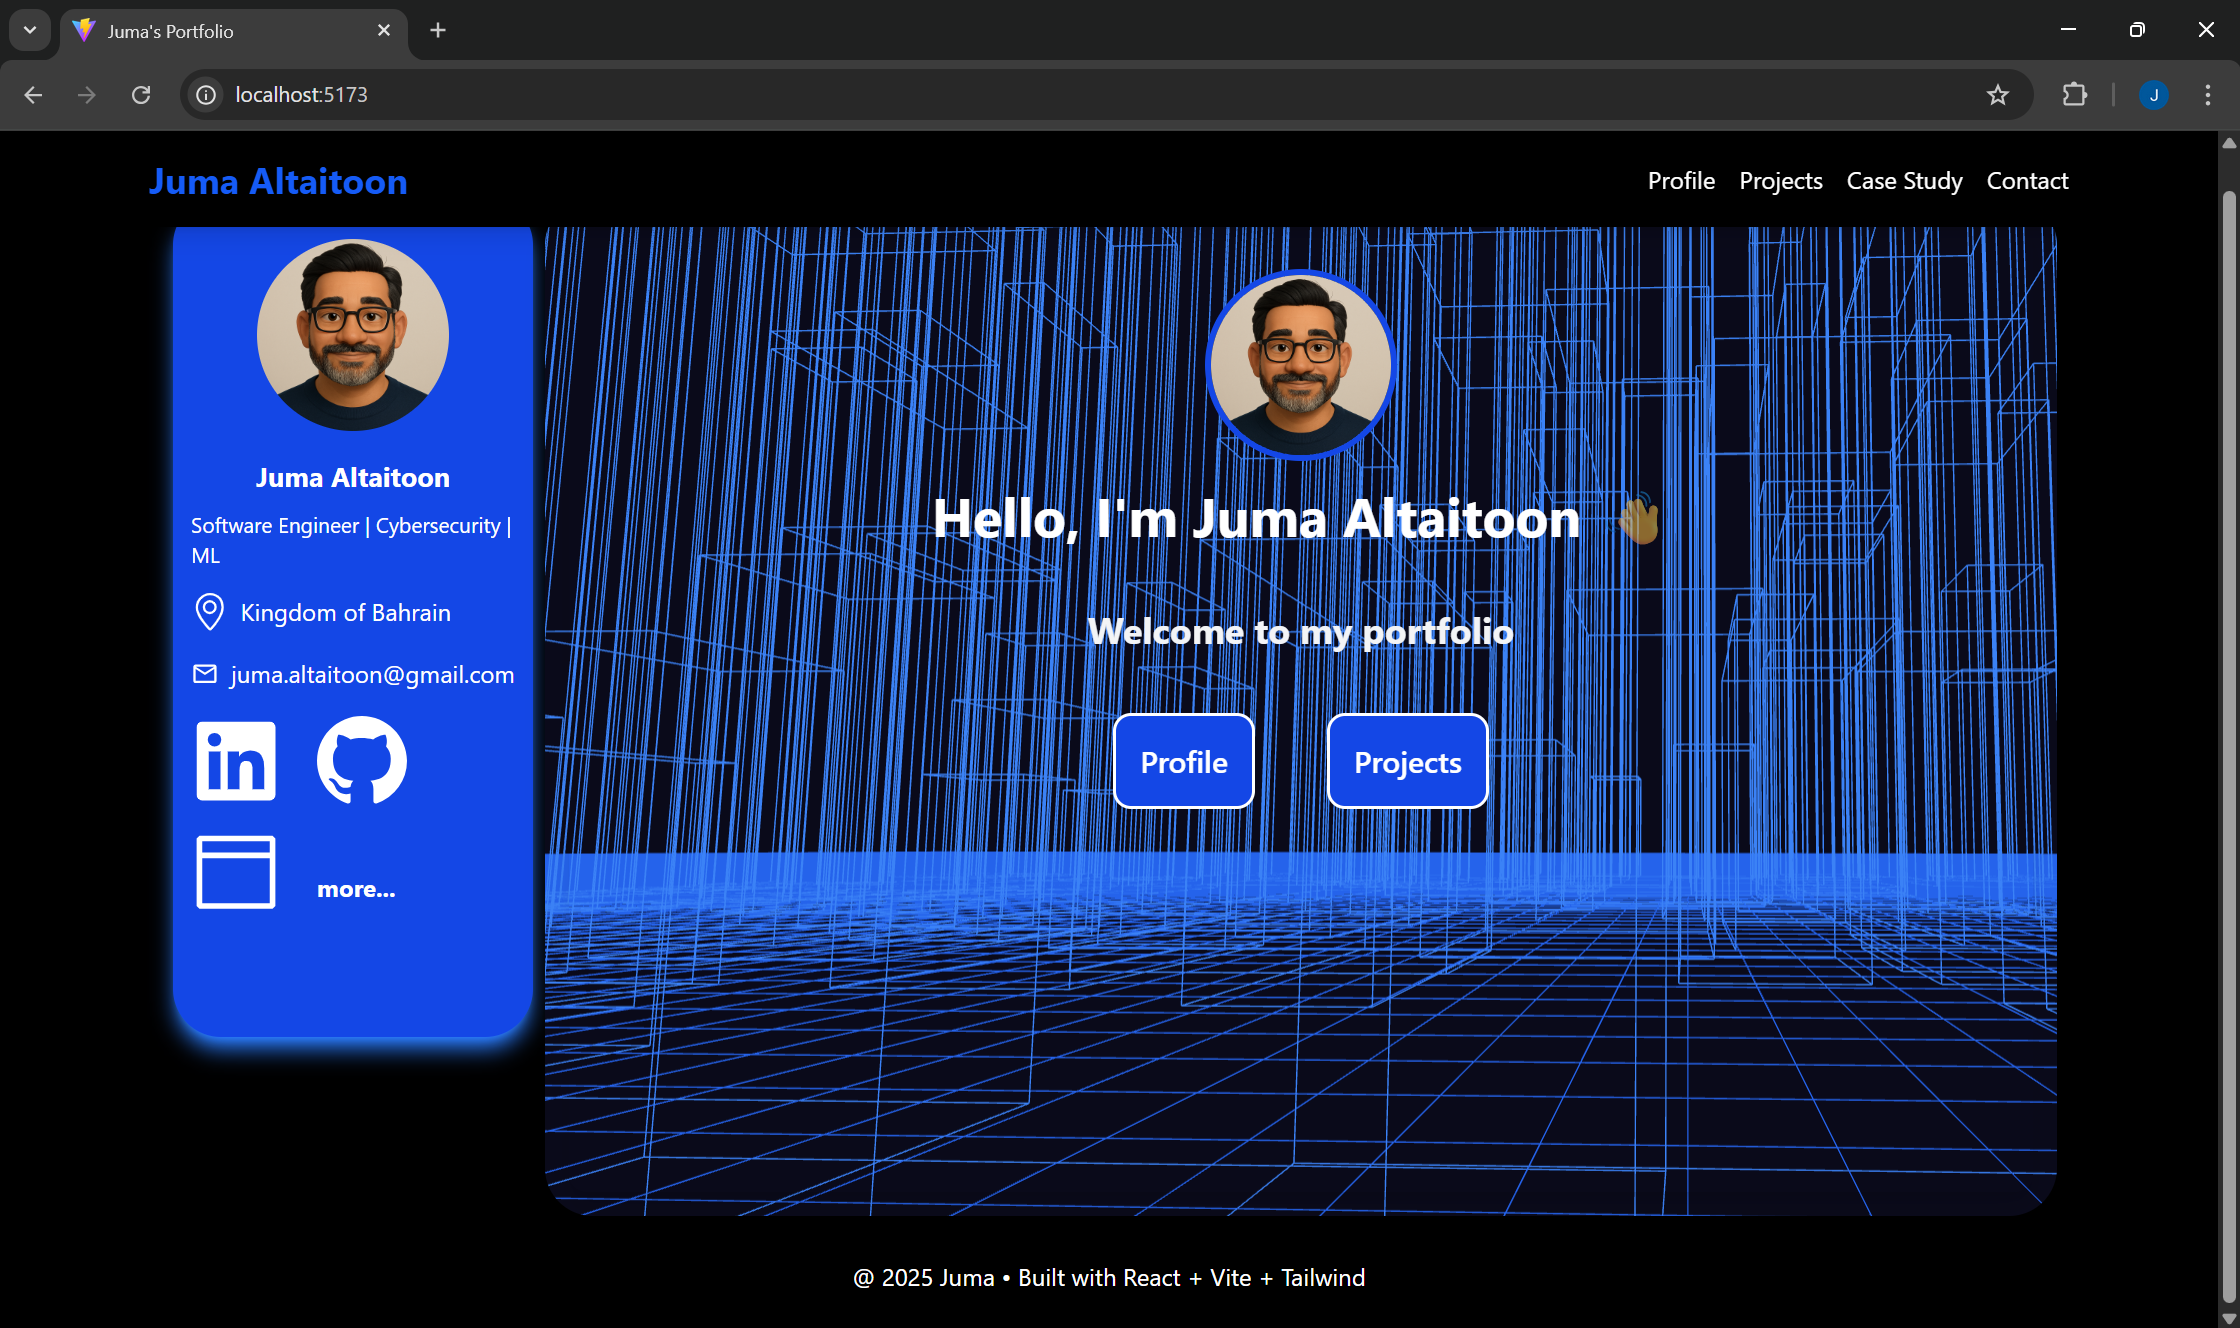
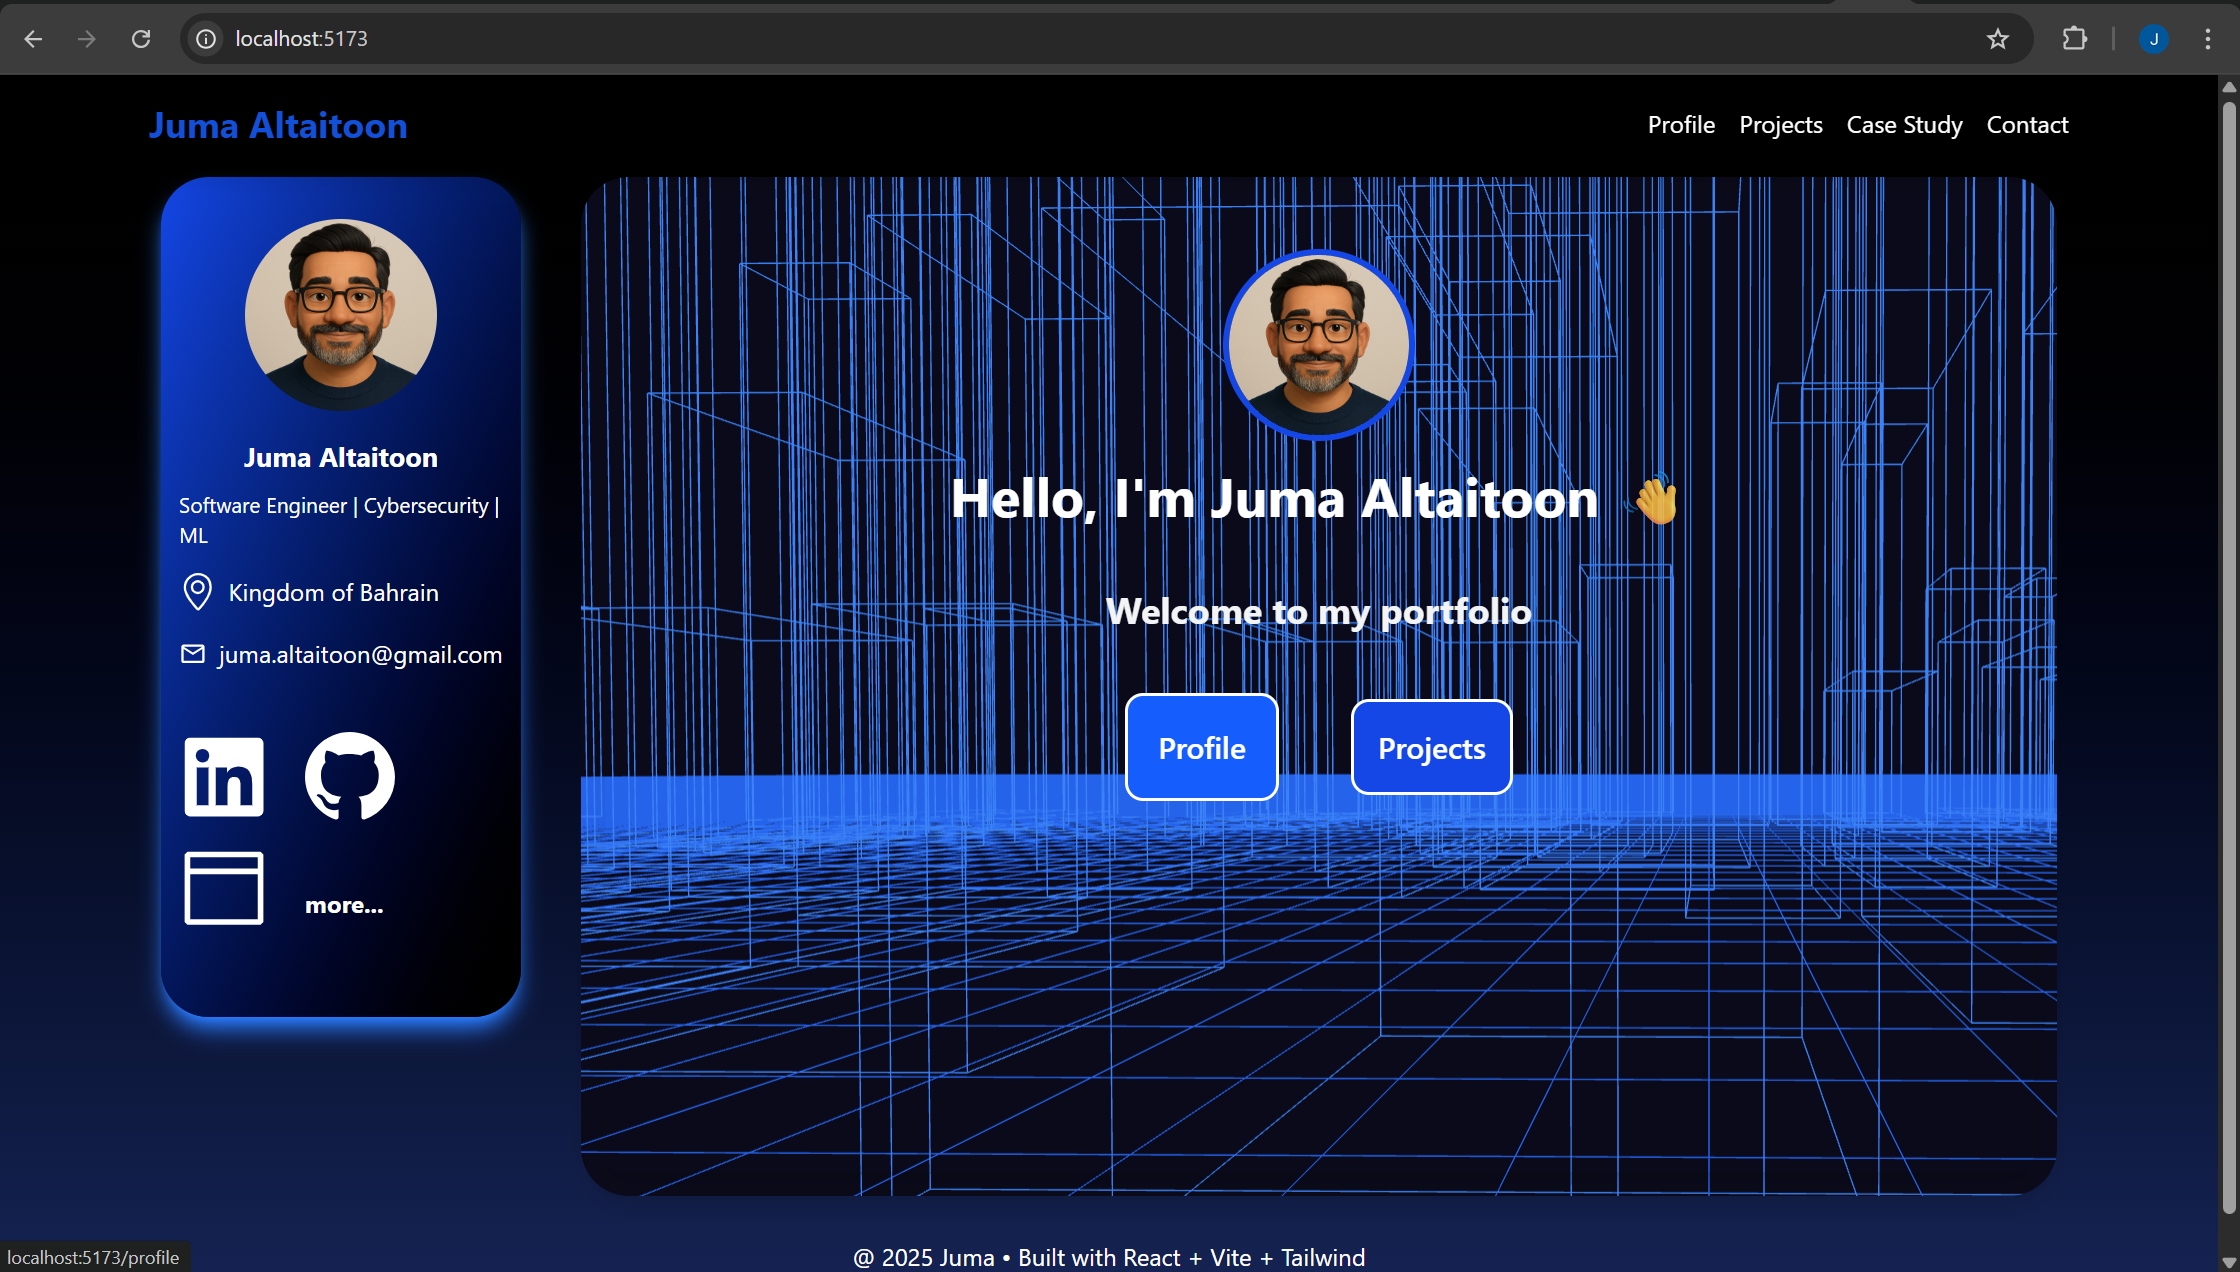
Commit 10: - Update project screenshots - Fix scrollbars: make them invisible

diff --git a/src/pages/ProjectDetails.jsx b/src/pages/ProjectDetails.jsx
@@ -47,14 +47,14 @@ export default function ProjectDetails() {
                             <>
                                 <button 
                                     onClick={prevMedia} 
-                                    className="absolute left-4 top-1/2 -translate-y-1/2 bg-transparent text-blue-700 text-2xl font-bold p-2 rounded-full"
+                                    className="absolute left-1 top-1/2 -translate-y-1/2 bg-transparent text-blue-700 text-2xl font-bold p-2 rounded-full"
                                     aria-label="Previous Image"
                                 >
                                     &#8249;
                                 </button>
                                 <button 
                                     onClick={nextMedia} 
-                                    className="absolute right-4 top-1/2 -translate-y-1/2 bg-transparent text-blue-700 text-2xl font-bold p-2 rounded-full"
+                                    className="absolute right-1 top-1/2 -translate-y-1/2 text-blue-600 text-2xl font-bold px-2 pb-1 rounded-full text-center"
                                     aria-label="Next Image"
                                 >
                                     &#8250;

diff --git a/src/index.css b/src/index.css
@@ -1,4 +1,14 @@
 @import "tailwindcss";
+
+/* Hide scrollbars for all elements */
+* {
+  scrollbar-width: none;          /* Firefox */
+  -ms-overflow-style: none;       /* IE and Edge */
+}
+*::-webkit-scrollbar {
+  display: none;                  /* Chrome, Safari, Opera */
+}
+
 /* @tailwindxss base;
 @tailwindxss components;
 @tailwindxss utilities; */
